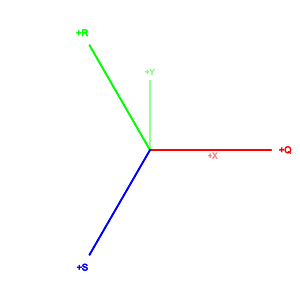
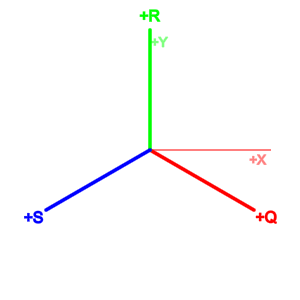
docs(hexes): correct QRS component axis diagrams

diff --git a/tests/Akeldov.Math.Hexes.Tests/Rasterization/QrsBasisDocumentationSnapshotTests.cs b/tests/Akeldov.Math.Hexes.Tests/Rasterization/QrsBasisDocumentationSnapshotTests.cs
@@ -9,6 +9,29 @@ namespace Akeldov.Math.Hexes.Tests.Rasterization;
 
 public class QrsBasisDocumentationSnapshotTests
 {
+    [TestCase(Layout.OddR)]
+    [TestCase(Layout.EvenR)]
+    [TestCase(Layout.OddQ)]
+    [TestCase(Layout.EvenQ)]
+    public void GetComponentAxes_ReconstructsQrsDifferences(Layout layout)
+    {
+        (VectorXY q, VectorXY r, VectorXY s) = GetComponentAxes(layout);
+
+        Assert.Multiple(() =>
+        {
+            Assert.That(q.Length, Is.EqualTo(1f).Within(0.0001f));
+            Assert.That(r.Length, Is.EqualTo(1f).Within(0.0001f));
+            Assert.That(s.Length, Is.EqualTo(1f).Within(0.0001f));
+            Assert.That((q + r + s).Length, Is.EqualTo(0f).Within(0.0001f));
+            Assert.That(
+                ((q - s) - new VectorQRS(1, 0).ToVectorXY(layout)).Length,
+                Is.EqualTo(0f).Within(0.0001f));
+            Assert.That(
+                ((r - s) - new VectorQRS(0, 1).ToVectorXY(layout)).Length,
+                Is.EqualTo(0f).Within(0.0001f));
+        });
+    }
+
     [TestCase(Layout.OddR, "qrs-basis-pointy-top.png")]
     [TestCase(Layout.OddQ, "qrs-basis-flat-top.png")]
     public void Rasterize_WithDocumentationBasisExample_MatchesApprovedImage(Layout layout, string fileName)
@@ -21,9 +44,7 @@ public class QrsBasisDocumentationSnapshotTests
         }
 
         var p0 = new PointXY(0, 0);
-        VectorXY q = new VectorQRS(1, 0).ToVectorXY(layout);
-        VectorXY r = new VectorQRS(-1, 1).ToVectorXY(layout);
-        VectorXY s = new VectorQRS(0, -1).ToVectorXY(layout);
+        (VectorXY q, VectorXY r, VectorXY s) = GetComponentAxes(layout);
         TrueTypeFont font = TrueTypeFont.Load(fontPath);
         var scene = new GeometryScene<RGBA16BitColor>(RGBA16BitColor.White, RGBA16BitColor.AlphaOver);
         var centered = new TextLayoutOptions { Anchor = TextAnchor.Center };
@@ -34,7 +55,7 @@ public class QrsBasisDocumentationSnapshotTests
             .AddPointDistanceBasedLayer(new ParameterizedSegment(p0, new PointXY(1f, 0f)), xColor, 0.006f, 0.006f)
             .AddPointDistanceBasedLayer(new ParameterizedSegment(p0, new PointXY(0f, 1f)), yColor, 0.006f, 0.006f)
             .AddTextLayer(font, "+X", new PointXY(0.9f, -0.08f), 0.11f, xColor, 0.01f, centered)
-            .AddTextLayer(font, "+Y", new PointXY(0f, 1.12f), 0.11f, yColor, 0.01f, centered)
+            .AddTextLayer(font, "+Y", new PointXY(0.08f, 0.9f), 0.11f, yColor, 0.01f, centered)
             .AddPointDistanceBasedLayer(new ParameterizedSegment(p0, p0 + q), RGBA16BitColor.Red, 0.01f, 0.01f)
             .AddPointDistanceBasedLayer(new ParameterizedSegment(p0, p0 + r), RGBA16BitColor.Green, 0.01f, 0.01f)
             .AddPointDistanceBasedLayer(new ParameterizedSegment(p0, p0 + s), RGBA16BitColor.Blue, 0.01f, 0.01f)
@@ -42,8 +63,8 @@ public class QrsBasisDocumentationSnapshotTests
             .AddTextLayer(font, "+R", p0 + r * 1.12f, 0.13f, RGBA16BitColor.Green, 0.01f, centered)
             .AddTextLayer(font, "+S", p0 + s * 1.12f, 0.13f, RGBA16BitColor.Blue, 0.01f, centered)
             .Rasterize(new RasterGeometry(
-                new PointXY(-2.15f, -2.15f),
-                new VectorXY(4.3f, 4.3f),
+                new PointXY(-1.25f, -1.25f),
+                new VectorXY(2.5f, 2.5f),
                 new VectorXYInt(300, 300)));
 
         string actualPath = Path.Combine(TestContext.CurrentContext.WorkDirectory, fileName);
@@ -56,5 +77,15 @@ public class QrsBasisDocumentationSnapshotTests
             TestContext.AddTestAttachment(actualPath, "Actual QRS basis documentation snapshot");
             Assert.Fail($"QRS basis documentation snapshot changed. Actual image: {actualPath}");
         }
+    }
+
+    private static (VectorXY q, VectorXY r, VectorXY s) GetComponentAxes(Layout layout)
+    {
+        VectorXY qMinusS = new VectorQRS(1, 0).ToVectorXY(layout);
+        VectorXY rMinusS = new VectorQRS(0, 1).ToVectorXY(layout);
+        VectorXY s = (qMinusS + rMinusS) * (-1f / 3f);
+        VectorXY q = qMinusS + s;
+        VectorXY r = rMinusS + s;
+        return (q, r, s);
     }
 }

diff --git a/docs/Hexes/vectors.md b/docs/Hexes/vectors.md
@@ -11,21 +11,21 @@ QRS index and row/column storage indexes depends on `Layout`.
 ## QRS Basis Examples
 
 QRS coordinates keep the cube-coordinate invariant `Q + R + S = 0`. The
-diagrams show the three positive cube-coordinate directions, separated by 120
-degrees: red is `+Q`, green is `+R`, and blue is `+S`. The two independent
-axial basis vectors `(1, 0)` and `(0, 1)` are separated by 60 degrees.
-
-The default positive QRS basis directions are:
+diagrams show a symmetric embedding of the three component axes, separated by
+120 degrees: red is `eQ`, green is `eR`, and blue is `eS`. A valid QRS vector is
+the linear combination:
 
 ```text
-+Q = ( 1,  0, -1)
-+R = (-1,  1,  0)
-+S = ( 0, -1,  1)
+(Q, R, S) = Q * eQ + R * eR + S * eS
 ```
 
-After conversion to Spatial2D coordinates, each of these basis vectors has a
-length of `sqrt(3)`, the center-to-center distance of neighboring regular
-hexagons with radius `1.0`.
+The component axes cannot be represented individually by `VectorQRS` because
+each valid vector must satisfy the zero-sum invariant. The diagrams reconstruct
+them from the valid differences `eQ - eS = (1, 0, -1)` and
+`eR - eS = (0, 1, -1)`, with `eQ + eR + eS = 0` selecting the symmetric
+embedding. For a unit-radius hexagon, each component axis has length `1.0`,
+while the difference between two axes has length `sqrt(3)`, the center-to-center
+distance of neighboring hexagons.
 
 ### `OddR` and `EvenR`
 
@@ -35,9 +35,11 @@ world-space directions of QRS vectors.
 
 ```csharp
 var p0 = new PointXY(0, 0);
-VectorXY q = new VectorQRS(1, 0).ToVectorXY(Layout.OddR);
-VectorXY r = new VectorQRS(-1, 1).ToVectorXY(Layout.OddR);
-VectorXY s = new VectorQRS(0, -1).ToVectorXY(Layout.OddR);
+VectorXY qMinusS = new VectorQRS(1, 0).ToVectorXY(Layout.OddR);
+VectorXY rMinusS = new VectorQRS(0, 1).ToVectorXY(Layout.OddR);
+VectorXY s = (qMinusS + rMinusS) * (-1f / 3f);
+VectorXY q = qMinusS + s;
+VectorXY r = rMinusS + s;
 TrueTypeFont font = TrueTypeFont.Load(
     Path.Combine(Environment.GetFolderPath(Environment.SpecialFolder.Fonts), "arial.ttf"));
 
@@ -50,14 +52,14 @@ scene
     .AddPointDistanceBasedLayer(new ParameterizedSegment(p0, new PointXY(1f, 0f)), xColor, 0.006f, 0.006f)
     .AddPointDistanceBasedLayer(new ParameterizedSegment(p0, new PointXY(0f, 1f)), yColor, 0.006f, 0.006f)
     .AddTextLayer(font, "+X", new PointXY(0.9f, -0.08f), 0.11f, xColor, 0.01f, centered)
-    .AddTextLayer(font, "+Y", new PointXY(0f, 1.12f), 0.11f, yColor, 0.01f, centered)
+    .AddTextLayer(font, "+Y", new PointXY(0.08f, 0.9f), 0.11f, yColor, 0.01f, centered)
     .AddPointDistanceBasedLayer(new ParameterizedSegment(p0, p0 + q), RGBA16BitColor.Red, 0.01f, 0.01f)
     .AddPointDistanceBasedLayer(new ParameterizedSegment(p0, p0 + r), RGBA16BitColor.Green, 0.01f, 0.01f)
     .AddPointDistanceBasedLayer(new ParameterizedSegment(p0, p0 + s), RGBA16BitColor.Blue, 0.01f, 0.01f)
     .AddTextLayer(font, "+Q", p0 + q * 1.12f, 0.13f, RGBA16BitColor.Red, 0.01f, centered)
     .AddTextLayer(font, "+R", p0 + r * 1.12f, 0.13f, RGBA16BitColor.Green, 0.01f, centered)
     .AddTextLayer(font, "+S", p0 + s * 1.12f, 0.13f, RGBA16BitColor.Blue, 0.01f, centered)
-    .Rasterize(new RasterGeometry(new PointXY(-2.15f, -2.15f), new VectorXY(4.3f, 4.3f), new VectorXYInt(300, 300)))
+    .Rasterize(new RasterGeometry(new PointXY(-1.25f, -1.25f), new VectorXY(2.5f, 2.5f), new VectorXYInt(300, 300)))
     .SaveAsPng("qrs-basis-pointy-top.png");
 ```
 
@@ -71,9 +73,11 @@ world-space directions of QRS vectors.
 
 ```csharp
 var p0 = new PointXY(0, 0);
-VectorXY q = new VectorQRS(1, 0).ToVectorXY(Layout.OddQ);
-VectorXY r = new VectorQRS(-1, 1).ToVectorXY(Layout.OddQ);
-VectorXY s = new VectorQRS(0, -1).ToVectorXY(Layout.OddQ);
+VectorXY qMinusS = new VectorQRS(1, 0).ToVectorXY(Layout.OddQ);
+VectorXY rMinusS = new VectorQRS(0, 1).ToVectorXY(Layout.OddQ);
+VectorXY s = (qMinusS + rMinusS) * (-1f / 3f);
+VectorXY q = qMinusS + s;
+VectorXY r = rMinusS + s;
 TrueTypeFont font = TrueTypeFont.Load(
     Path.Combine(Environment.GetFolderPath(Environment.SpecialFolder.Fonts), "arial.ttf"));
 
@@ -86,14 +90,14 @@ scene
     .AddPointDistanceBasedLayer(new ParameterizedSegment(p0, new PointXY(1f, 0f)), xColor, 0.006f, 0.006f)
     .AddPointDistanceBasedLayer(new ParameterizedSegment(p0, new PointXY(0f, 1f)), yColor, 0.006f, 0.006f)
     .AddTextLayer(font, "+X", new PointXY(0.9f, -0.08f), 0.11f, xColor, 0.01f, centered)
-    .AddTextLayer(font, "+Y", new PointXY(0f, 1.12f), 0.11f, yColor, 0.01f, centered)
+    .AddTextLayer(font, "+Y", new PointXY(0.08f, 0.9f), 0.11f, yColor, 0.01f, centered)
     .AddPointDistanceBasedLayer(new ParameterizedSegment(p0, p0 + q), RGBA16BitColor.Red, 0.01f, 0.01f)
     .AddPointDistanceBasedLayer(new ParameterizedSegment(p0, p0 + r), RGBA16BitColor.Green, 0.01f, 0.01f)
     .AddPointDistanceBasedLayer(new ParameterizedSegment(p0, p0 + s), RGBA16BitColor.Blue, 0.01f, 0.01f)
     .AddTextLayer(font, "+Q", p0 + q * 1.12f, 0.13f, RGBA16BitColor.Red, 0.01f, centered)
     .AddTextLayer(font, "+R", p0 + r * 1.12f, 0.13f, RGBA16BitColor.Green, 0.01f, centered)
     .AddTextLayer(font, "+S", p0 + s * 1.12f, 0.13f, RGBA16BitColor.Blue, 0.01f, centered)
-    .Rasterize(new RasterGeometry(new PointXY(-2.15f, -2.15f), new VectorXY(4.3f, 4.3f), new VectorXYInt(300, 300)))
+    .Rasterize(new RasterGeometry(new PointXY(-1.25f, -1.25f), new VectorXY(2.5f, 2.5f), new VectorXYInt(300, 300)))
     .SaveAsPng("qrs-basis-flat-top.png");
 ```
 
